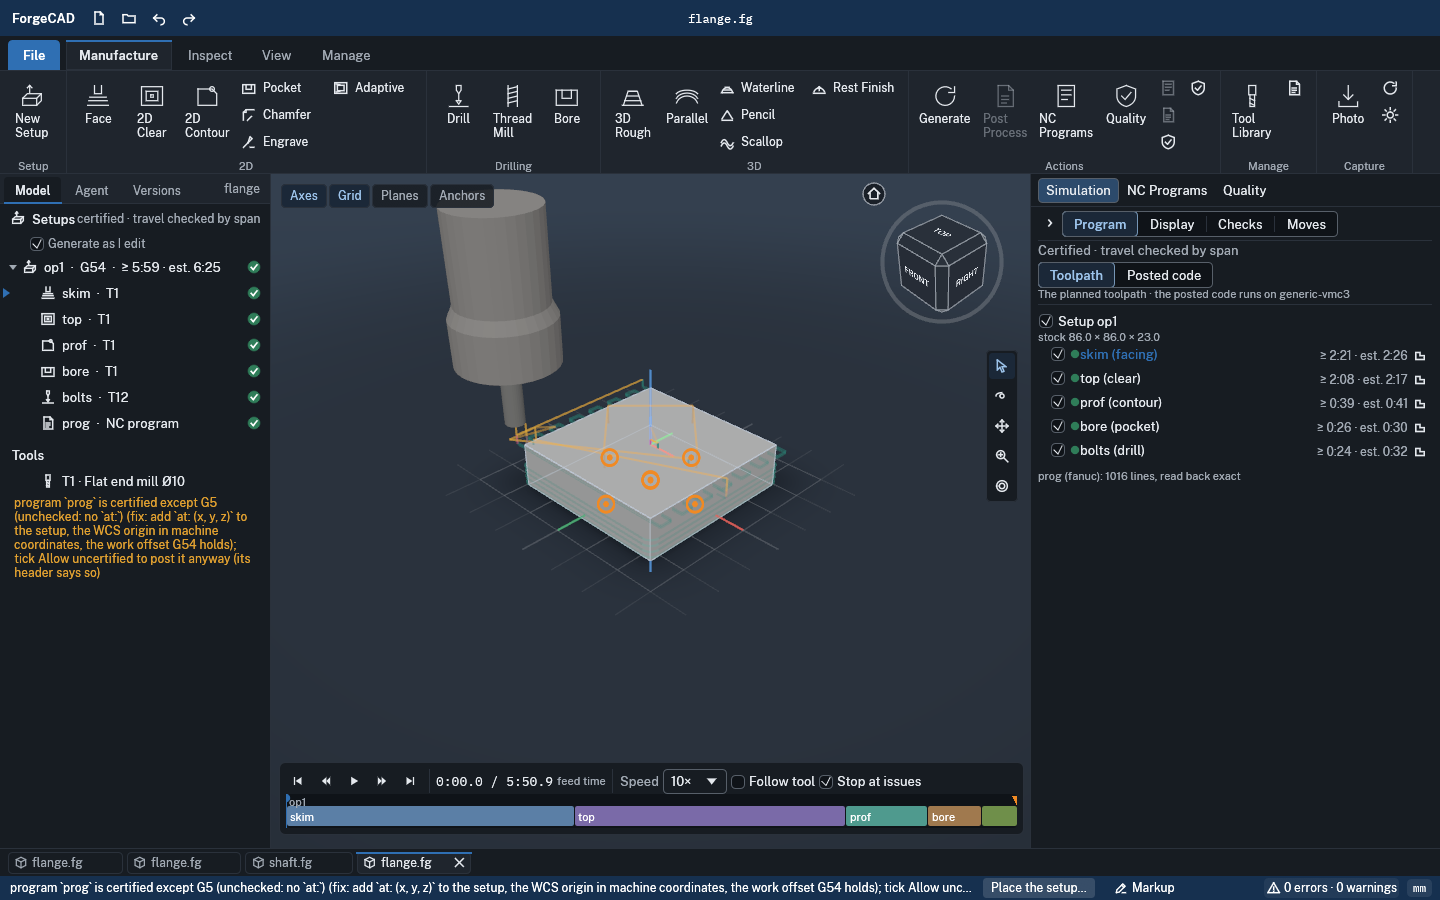
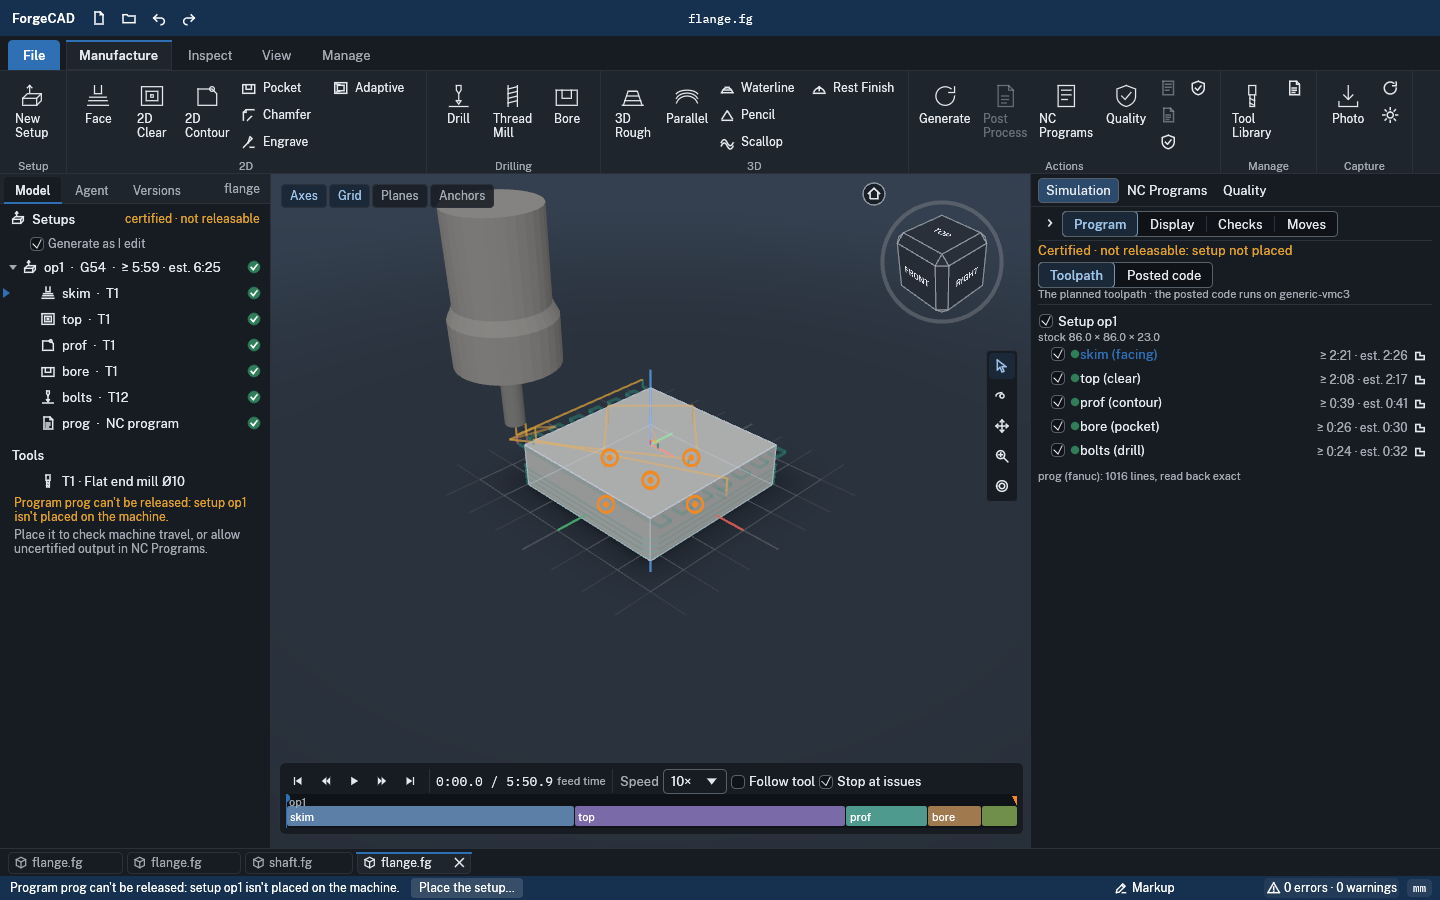
Manufacture: a release refusal in one plain sentence, headers say not releasable
UX-LEAD P0 on cam/ui-said: the raw refusal (nested parentheses, the
rule code, `at:` syntax) reached the screen.
- release_words: the sentence and the next step from the run's
  programs and the document's setups: "Program prog can't be released:
  setup op1 isn't placed on the machine." / "Place it to check machine
  travel, or allow uncertified output in NC Programs."; the rule and
  the syntax on hover only (status bar and the block under Tools)
- a refused post or export says the sentence on the status bar
- while G5 blocks release: Setups header "certified · not releasable"
  (": setup not placed" where it fits), sim header "Certified · not
  releasable: setup not placed" in amber, the span-only check on hover;
  placed, back to "certified"
- the status line idle: "N/M ops built · not releasable: setup not
  placed" (no rule codes)

Claude-Session: https://claude.ai/code/session_01WJtawySQLKzpnK7g6t2CVB

diff --git a/interface/forge-render/src/shell/cam/ui.rs b/interface/forge-render/src/shell/cam/ui.rs
@@ -332,6 +332,10 @@ impl Shell {
                         Cert::Certified => ("certified".into(), t.success),
                         // not a failure: a rule this run does not decide (G4's leftover not
                         // computed; G5's travel by span only until a setup is placed)
+                        // G5 unchecked on a mill: no program is releasable, so the header says so
+                        Cert::Unchecked(g) if g.contains("G5") && !w.turning() => {
+                            ("certified · not releasable: setup not placed".into(), t.warn)
+                        }
                         Cert::Unchecked(g) => (format!("certified · {}", unchecked_chip(g)), t.ink2),
                         Cert::Refused => ("refused".into(), t.error),
                     },
@@ -343,17 +347,22 @@ impl Shell {
                     ui.interact(r, ui.scope_id().with("cam-cert"), Sense::hover())
                         .on_hover_text(unchecked_words(g));
                 }
-                ui.painter().text(
+                let head = ui.painter().text(
                     pos2(r.left() + 32.0, r.center().y),
                     Align2::LEFT_CENTER,
                     "Setups",
                     medium(13.0),
                     t.ink,
                 );
+                // the words in the room beside "Setups": where they do not fit, the short form
+                // (what follows the colon is the hover's)
+                let room = r.right() - 10.0 - head.right() - 12.0;
+                let fits = |s: &str| ui.fonts_mut(|f| f.layout_no_wrap(s.to_string(), sans(12.0), cert.1)).size().x <= room;
+                let words = if fits(&cert.0) { cert.0.clone() } else { cert.0.split(':').next().unwrap_or("").to_string() };
                 ui.painter().text(
                     pos2(r.right() - 10.0, r.center().y),
                     Align2::RIGHT_CENTER,
-                    &cert.0,
+                    &words,
                     sans(12.0),
                     cert.1,
                 );
@@ -552,7 +561,20 @@ impl Shell {
                         note(ui, e, width, t.error);
                     }
                 }
-                if let Some(s) = &w.said {
+                // why a program can't be released: one sentence, the next step; the code and the
+                // syntax on hover (UX-LEAD)
+                let blocked = release_words(&w);
+                if let Some(b) = &blocked {
+                    let r0 = ui.cursor().min.y;
+                    note(ui, &b.sentence, width, t.warn);
+                    note(ui, &b.next, width, t.ink2);
+                    let r = Rect::from_min_max(pos2(area.left(), r0), pos2(area.left() + width, ui.cursor().min.y));
+                    ui.interact(r, ui.scope_id().with("cam-blocked"), Sense::hover()).on_hover_text(&b.detail);
+                    places.push(("cam:blocked".into(), r));
+                }
+                if let Some(s) = &w.said
+                    && blocked.as_ref().is_none_or(|b| &b.sentence != s)
+                {
                     note(ui, s, width, t.warn);
                 }
             });
@@ -3749,7 +3771,7 @@ pub fn status_line(w: &CamWs) -> String {
     };
     // certified only as far as it is: a program that cannot be released says so
     let cert = match (release_block(w), w.run.as_ref().map(|r| cert_of(r.ok, &r.certification))) {
-        (Some(_), _) => format!("{built}/{n} ops built \u{b7} not released: {}", release_short(w)),
+        (Some(_), _) => format!("{built}/{n} ops built \u{b7} not releasable: {}", release_short(w)),
         (None, Some(Cert::Unchecked(g))) => format!("{built}/{n} ops certified \u{b7} {}", unchecked_chip(g)),
         _ => format!("{built}/{n} ops certified"),
     };
@@ -3786,11 +3808,54 @@ pub fn release_block(w: &CamWs) -> Option<String> {
     ))
 }
 
+/// Why a program can't be released, for a person (UX-LEAD): one sentence, what to do next, and
+/// the detail (the rule's code, the `at:` syntax) for the hover only.
+pub struct Blocked {
+    pub sentence: String,
+    pub next: String,
+    pub detail: String,
+}
+
+/// `release_block` in plain words, from the run's programs and the document's setups.
+pub fn release_words(w: &CamWs) -> Option<Blocked> {
+    let detail = release_block(w)?;
+    let r = w.run.as_ref()?;
+    let bad: Vec<&str> = r.programs.iter().filter(|p| p.certified != "full").map(|p| p.name.as_str()).collect();
+    let progs = if bad.len() == 1 { format!("Program {}", bad[0]) } else { format!("Programs {}", bad.join(", ")) };
+    let g5 = r.programs.iter().any(|p| p.certified.contains("G5"));
+    let unplaced: Vec<String> = w.setups().iter().filter(|s| s.arg("at").is_none()).map(|s| s.name.clone()).collect();
+    let (sentence, next) = if g5 && !unplaced.is_empty() {
+        let who = if unplaced.len() == 1 {
+            format!("setup {} isn't", unplaced[0])
+        } else {
+            format!("setups {} aren't", unplaced.join(", "))
+        };
+        (
+            format!("{progs} can't be released: {who} placed on the machine."),
+            format!(
+                "Place {} to check machine travel, or allow uncertified output in NC Programs.",
+                if unplaced.len() == 1 { "it" } else { "them" }
+            ),
+        )
+    } else if g5 {
+        (
+            format!("{progs} can't be released: machine travel isn't checked in full."),
+            "Choose a machine and place the setup, or allow uncertified output in NC Programs.".to_string(),
+        )
+    } else {
+        (
+            format!("{progs} can't be released: {} isn't certified.", if bad.len() == 1 { "it" } else { "each" }),
+            "See Checks for why, or allow uncertified output in NC Programs.".to_string(),
+        )
+    };
+    Some(Blocked { sentence, next, detail })
+}
+
 /// `release_block` in a few words, for the status line.
 fn release_short(w: &CamWs) -> &'static str {
     match w.run.as_ref() {
-        Some(r) if r.programs.iter().any(|p| p.certified.contains("G5")) => "setup not placed (G5)",
-        Some(r) if r.programs.iter().any(|p| p.certified.contains("G4")) => "leftover not checked (G4)",
+        Some(r) if r.programs.iter().any(|p| p.certified.contains("G5")) => "setup not placed",
+        Some(r) if r.programs.iter().any(|p| p.certified.contains("G4")) => "leftover not checked",
         _ => "not certified",
     }
 }
@@ -4048,10 +4113,14 @@ pub(crate) fn cert_of(ok: bool, certification: &str) -> Cert {
 
 /// A certified run's words as the simulation's header says them ("Certified", or "Certified ·
 /// leftover not checked" with the hover's explanation), the same as the Setups chip.
-pub fn certified_words(certification: &str) -> (String, Option<String>) {
+pub fn certified_words(certification: &str) -> (String, Option<String>, bool) {
     match cert_of(true, certification) {
-        Cert::Unchecked(g) => (format!("Certified \u{b7} {}", unchecked_chip(g)), Some(unchecked_words(g))),
-        _ => ("Certified".to_string(), None),
+        // G5 unchecked: certified, but no program is releasable until the setup is placed (amber)
+        Cert::Unchecked(g) if g.contains("G5") => {
+            ("Certified \u{b7} not releasable: setup not placed".to_string(), Some(unchecked_words(g)), true)
+        }
+        Cert::Unchecked(g) => (format!("Certified \u{b7} {}", unchecked_chip(g)), Some(unchecked_words(g)), false),
+        _ => ("Certified".to_string(), None, false),
     }
 }
 
@@ -4072,7 +4141,7 @@ fn unchecked_words(g: &str) -> String {
               placed on the machine. Set its position (at:) in the setup dialog to check positions too.";
     match g {
         "G4" => format!("{g4}\nEvery op is certified and every program released."),
-        "G5" => format!("{g5}\nEvery op is certified."),
+        "G5" => format!("{g5}\nEvery op is certified; no program is releasable until the setup is placed."),
         "G4 and G5" => format!("{g4}\n{g5}\nEvery op is certified."),
         _ => "A check is not decided in this run. Every op is certified.".into(),
     }
@@ -4109,10 +4178,14 @@ mod tests {
     /// string ("full except G4 (leftover not computed)"), the code on the hover's first line.
     #[test]
     fn the_simulations_header_reads_as_the_chip() {
-        assert_eq!(super::certified_words("full"), ("Certified".to_string(), None));
-        let (w, h) = super::certified_words("full except G4 (leftover not computed)");
+        assert_eq!(super::certified_words("full"), ("Certified".to_string(), None, false));
+        let (w, h, amber) = super::certified_words("full except G4 (leftover not computed)");
         assert_eq!(w, "Certified \u{b7} leftover not checked");
-        assert!(h.is_some_and(|h| h.starts_with("G4:")));
+        assert!(h.is_some_and(|h| h.starts_with("G4:")) && !amber);
+        // G5 unchecked: not releasable, in amber, the span-only check on hover
+        let (w, h, amber) = super::certified_words("except G5");
+        assert_eq!(w, "Certified \u{b7} not releasable: setup not placed");
+        assert!(h.is_some_and(|h| h.contains("span only")) && amber);
     }
 
     /// mold_core_cam end to end: its five ops and its program certify, G4 is not computed: the

diff --git a/interface/forge-render/tests/cam_ui.rs b/interface/forge-render/tests/cam_ui.rs
@@ -175,9 +175,20 @@ fn post_process_shows_the_program_and_writes_it() {
     // Process is off, the status says why, and its fix opens the setup
     h.step();
     let line = forge_render::shell::cam::status_line(h.gui.shell.cam.as_ref().unwrap());
-    assert!(line.contains("not released") && !line.contains("ops certified"), "{line}");
+    assert!(line.contains("not releasable: setup not placed") && !line.contains("ops certified"), "{line}");
+    assert!(!line.contains("G5"), "no rule codes on the screen: {line}");
     let why = forge_render::shell::cam::release_block(h.gui.shell.cam.as_ref().unwrap()).expect("blocked");
-    assert!(why.contains("at:"), "{why}");
+    assert!(why.contains("at:"), "the syntax on hover: {why}");
+    // one sentence for a person, and what to do (UX-LEAD); the code and syntax on hover only
+    let b = forge_render::shell::cam::release_words(h.gui.shell.cam.as_ref().unwrap()).expect("blocked");
+    assert_eq!(b.sentence, "Program prog can't be released: setup op1 isn't placed on the machine.");
+    assert_eq!(b.next, "Place it to check machine travel, or allow uncertified output in NC Programs.");
+    assert!(h.placed("cam:blocked").is_some(), "the sentence under Tools");
+    // a refused export says the sentence on the status bar
+    h.gui.shell.cam.as_mut().unwrap().command(forge_render::shell::cam::Cmd::ExportNc(None));
+    h.step();
+    let line = forge_render::shell::cam::status_line(h.gui.shell.cam.as_ref().unwrap());
+    assert_eq!(line, b.sentence);
     assert!(h.click("tool:Post Process"));
     h.step();
     assert!(h.placed("cam:post:text").is_none(), "Post Process is off while not releasable");

diff --git a/interface/forge-render/src/shell/mod.rs b/interface/forge-render/src/shell/mod.rs
@@ -1215,9 +1215,15 @@ impl Shell {
         let elided = g.size().x >= room - 1.0;
         let said = Rect::from_min_size(pos2(x + 4.0, st.center().y - g.size().y * 0.5), g.size());
         p.galley(said.min, g, Color32::WHITE);
-        if elided {
+        // the whole line on hover when cut; a release refusal's detail (its rule, the syntax) too
+        let detail = if self.tab == CAM_TAB { self.cam.as_ref().and_then(cam::release_words).map(|b| b.detail) } else { None };
+        if elided || detail.is_some() {
             let r = ui.interact(said, ui.scope_id().with("status-line"), Sense::hover());
-            r.on_hover_text(line);
+            r.on_hover_text(match (elided, detail) {
+                (true, Some(d)) => format!("{line}\n\n{d}"),
+                (false, Some(d)) => d,
+                _ => line.to_string(),
+            });
         }
         if let (Some((label, action)), Some(g)) = (fix, fix_g) {
             let fr = Rect::from_min_size(pos2(said.right() + 12.0, st.top() + 2.0), vec2(g.size().x + 16.0, STATUS_H - 4.0));

diff --git a/interface/forge-render/src/shell/cam/nc.rs b/interface/forge-render/src/shell/cam/nc.rs
@@ -60,6 +60,12 @@ fn key(w: &CamWs) -> u64 {
 }
 
 impl CamWs {
+    /// A post or an export refused: when it is the release rule, the plain sentence the
+    /// workspace shows for it (the raw refusal, with its code and syntax, is the hover's).
+    fn refused(&mut self, e: String) {
+        self.said = Some(super::ui::release_words(self).map_or(e, |b| b.sentence));
+    }
+
     /// The run's programs, as forge_cam_lang::export takes them.
     pub fn prog_ins(&self) -> Vec<ProgIn> {
         let Some(r) = &self.run else { return vec![] };
@@ -97,7 +103,7 @@ impl CamWs {
                     self.want_write.push((p, f.text));
                 }
             }
-            Err(e) => self.said = Some(e),
+            Err(e) => self.refused(e),
         }
     }
 
@@ -129,7 +135,7 @@ impl CamWs {
                     zip: format!("{stem}-nc.zip"),
                 });
             }
-            Err(e) => self.said = Some(e),
+            Err(e) => self.refused(e),
         }
     }
 

diff --git a/interface/forge-render/src/gui_camsim_panel.rs b/interface/forge-render/src/gui_camsim_panel.rs
@@ -799,8 +799,8 @@ fn verdict(ui: &mut Ui, st: &mut CamSimUi, t: &crate::shell::theme::Theme) {
     };
     if s.is_empty() {
         // certified: the workspace's words (a rule left unchecked named, its meaning on hover)
-        let (words, hover) = crate::shell::cam::certified_words(cam.certification());
-        let r = ui.colored_label(if hover.is_some() { t.ink2 } else { c }, words);
+        let (words, hover, amber) = crate::shell::cam::certified_words(cam.certification());
+        let r = ui.colored_label(if amber { t.warn } else if hover.is_some() { t.ink2 } else { c }, words);
         if let Some(h) = hover {
             r.on_hover_text(h);
         }

diff --git a/interface/forge-render/src/shell/cam/mod.rs b/interface/forge-render/src/shell/cam/mod.rs
@@ -26,7 +26,7 @@ pub mod schema;
 pub mod turnview;
 mod ui;
 pub use ui::{CYCLE_TIP, alt_clear_words, certified_words, check_lines, cycle_words, text_panel_h};
-pub use ui::{disabled_why, groups, release_block, status_fix, status_line};
+pub use ui::{Blocked, disabled_why, groups, release_block, release_words, status_fix, status_line};
 
 use doc::{Edit, Role, Stmt};
 use std::path::PathBuf;
